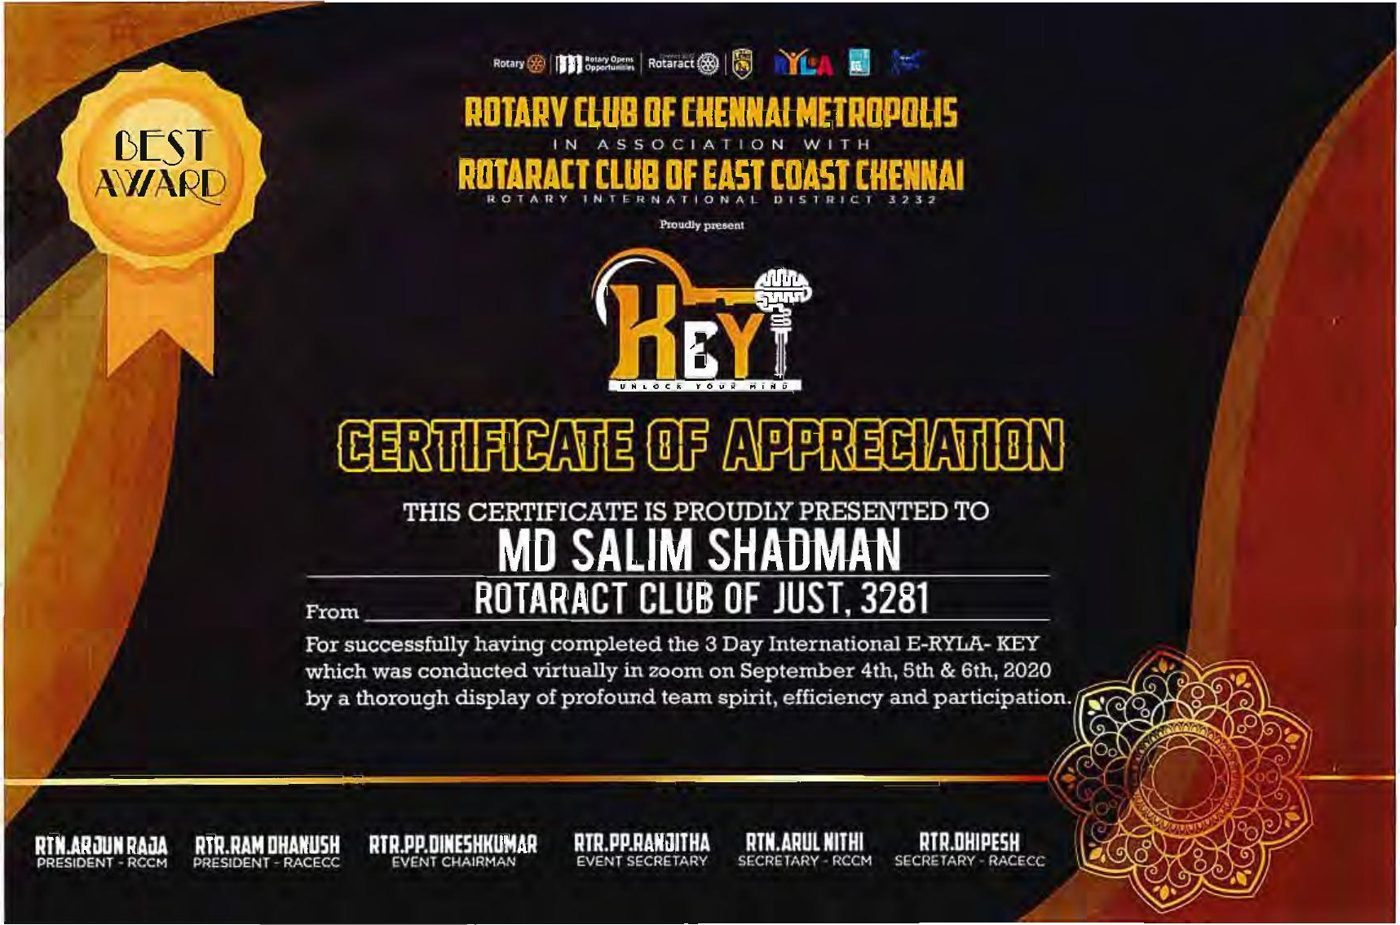
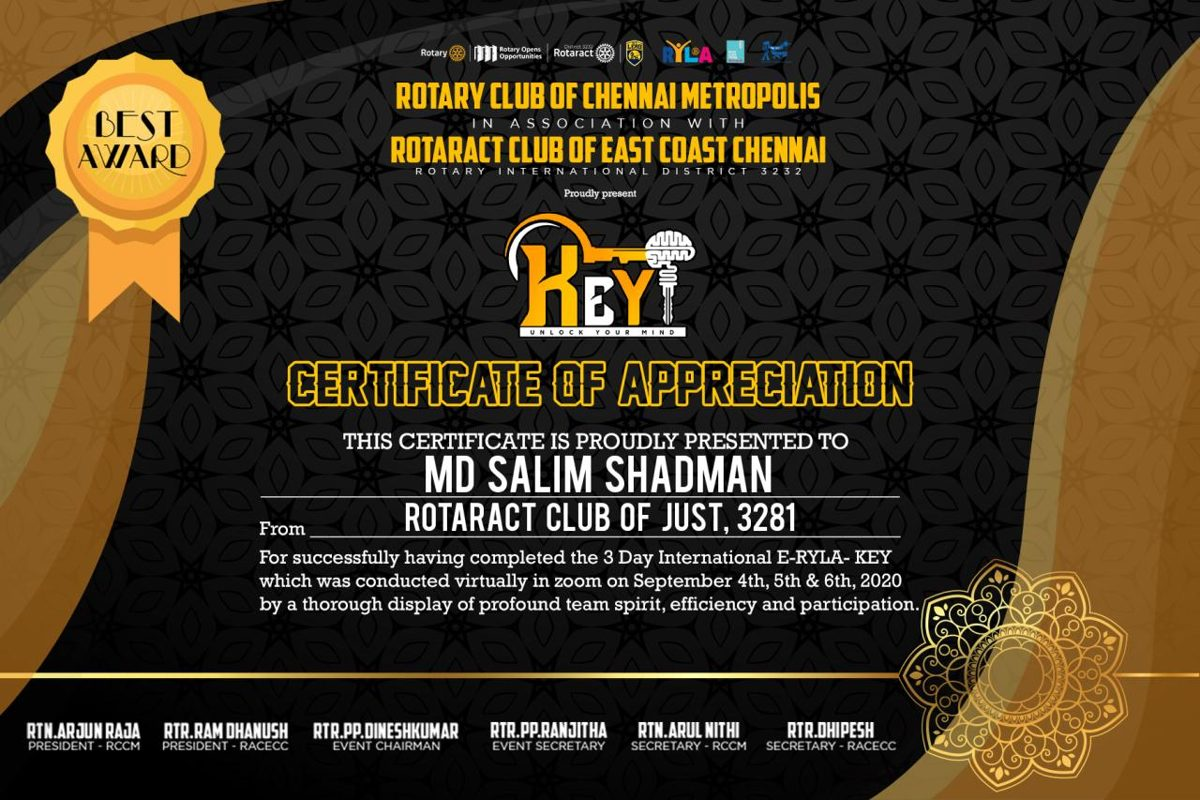
Add 8 activity posters to gallery; RYLA award certificates
Claude-Session: https://claude.ai/code/session_01167LHJbDQNf4W8JR1bnLsJ

diff --git a/index.html b/index.html
@@ -1403,7 +1403,11 @@ Achieved a student rating of 4.98/5, the highest across all 10MS EC branches, hi
                         <svg xmlns="http://www.w3.org/2000/svg" width="14" height="14" fill="none" stroke="currentColor" stroke-width="2" viewBox="0 0 24 24"><polyline points="6 9 12 15 18 9"/></svg>
                     </button>
                     <div class="preview-box hidden mt-3">
-                        <img src="./img/certs/cert-ryla-key-2020.jpg" alt="RYLA KEY certificate" loading="lazy" class="rounded-xl border border-purple-800 border-opacity-40" style="width:100%;height:auto;display:block;">
+                        <div class="grid grid-cols-1 gap-3">
+                            <img src="./img/certs/cert-ryla-star-rylarian.jpg" alt="Star RYLArian, Team C, KEY E-RYLA 2020" loading="lazy" class="rounded-xl border border-purple-800 border-opacity-40" style="width:100%;height:auto;display:block;">
+                            <img src="./img/certs/cert-ryla-best-team.jpg" alt="Best Team, Team C – The Unstoppables (Gold), KEY E-RYLA 2020" loading="lazy" class="rounded-xl border border-purple-800 border-opacity-40" style="width:100%;height:auto;display:block;">
+                            <img src="./img/certs/cert-ryla-key-2020.jpg" alt="KEY E-RYLA 2020 certificate of appreciation" loading="lazy" class="rounded-xl border border-purple-800 border-opacity-40" style="width:100%;height:auto;display:block;">
+                        </div>
                     </div>
                 </div>
                 <div class="card-hover bg-purple-900 bg-opacity-20 p-6 rounded-xl border border-purple-800 border-opacity-30">
@@ -1659,6 +1663,38 @@ Achieved a student rating of 4.98/5, the highest across all 10MS EC branches, hi
             <h2 class="text-4xl md:text-5xl font-bold text-center mb-4">More <span class="gradient-text">Extracurricular Activities</span></h2>
             <p class="text-center text-gray-400 mb-10">Certificates and event posters · scroll sideways, tap to enlarge</p>
             <div class="gallery-strip">
+                <figure class="gallery-item" onclick="openLightbox(this)">
+                    <img src="./img/gallery/poster-smart-talk-ep8.jpg" alt="Speaker, Smart Talk Episode 8 – Smart Career (Jul 2021)" loading="lazy">
+                    <figcaption>Speaker, Smart Talk Episode 8 – Smart Career (Jul 2021)</figcaption>
+                </figure>
+                <figure class="gallery-item" onclick="openLightbox(this)">
+                    <img src="./img/gallery/poster-mawbiz-experts.jpg" alt="Expert trainer, Professional Training on Photoshop – MAWbiz My Mentor" loading="lazy">
+                    <figcaption>Expert trainer, Professional Training on Photoshop – MAWbiz My Mentor</figcaption>
+                </figure>
+                <figure class="gallery-item" onclick="openLightbox(this)">
+                    <img src="./img/gallery/poster-ysse-interview.jpg" alt="Host, "The Journey of YSSE" live interview – Learning Bangladesh" loading="lazy">
+                    <figcaption>Host, "The Journey of YSSE" live interview – Learning Bangladesh</figcaption>
+                </figure>
+                <figure class="gallery-item" onclick="openLightbox(this)">
+                    <img src="./img/gallery/poster-aq-export-interview.jpg" alt="Host, "The Journey of AQ Export" live interview – Learning Bangladesh" loading="lazy">
+                    <figcaption>Host, "The Journey of AQ Export" live interview – Learning Bangladesh</figcaption>
+                </figure>
+                <figure class="gallery-item" onclick="openLightbox(this)">
+                    <img src="./img/gallery/poster-job-market-interview.jpg" alt="Host, "Job Market & Post-Covid Challenges" live interview – Learning Bangladesh" loading="lazy">
+                    <figcaption>Host, "Job Market & Post-Covid Challenges" live interview – Learning Bangladesh</figcaption>
+                </figure>
+                <figure class="gallery-item" onclick="openLightbox(this)">
+                    <img src="./img/gallery/poster-project-we.jpg" alt="Management Executive, Project WE" loading="lazy">
+                    <figcaption>Management Executive, Project WE</figcaption>
+                </figure>
+                <figure class="gallery-item" onclick="openLightbox(this)">
+                    <img src="./img/gallery/poster-talk-digital.jpg" alt="Campus Executive, Talk Digital (2020)" loading="lazy">
+                    <figcaption>Campus Executive, Talk Digital (2020)</figcaption>
+                </figure>
+                <figure class="gallery-item" onclick="openLightbox(this)">
+                    <img src="./img/gallery/poster-amar-ischool.jpg" alt="Campus Ambassador, Amar iSchool" loading="lazy">
+                    <figcaption>Campus Ambassador, Amar iSchool</figcaption>
+                </figure>
                 <figure class="gallery-item" onclick="openLightbox(this)">
                     <img src="./img/gallery/eduko-pathways-sdp-2025.jpg" alt="Student Development Program, Eduko Pathways × Brunel Pathway College & Navitas (Jul 2025)" loading="lazy">
                     <figcaption>Student Development Program, Eduko Pathways × Brunel Pathway College &amp; Navitas (Jul 2025)</figcaption>
